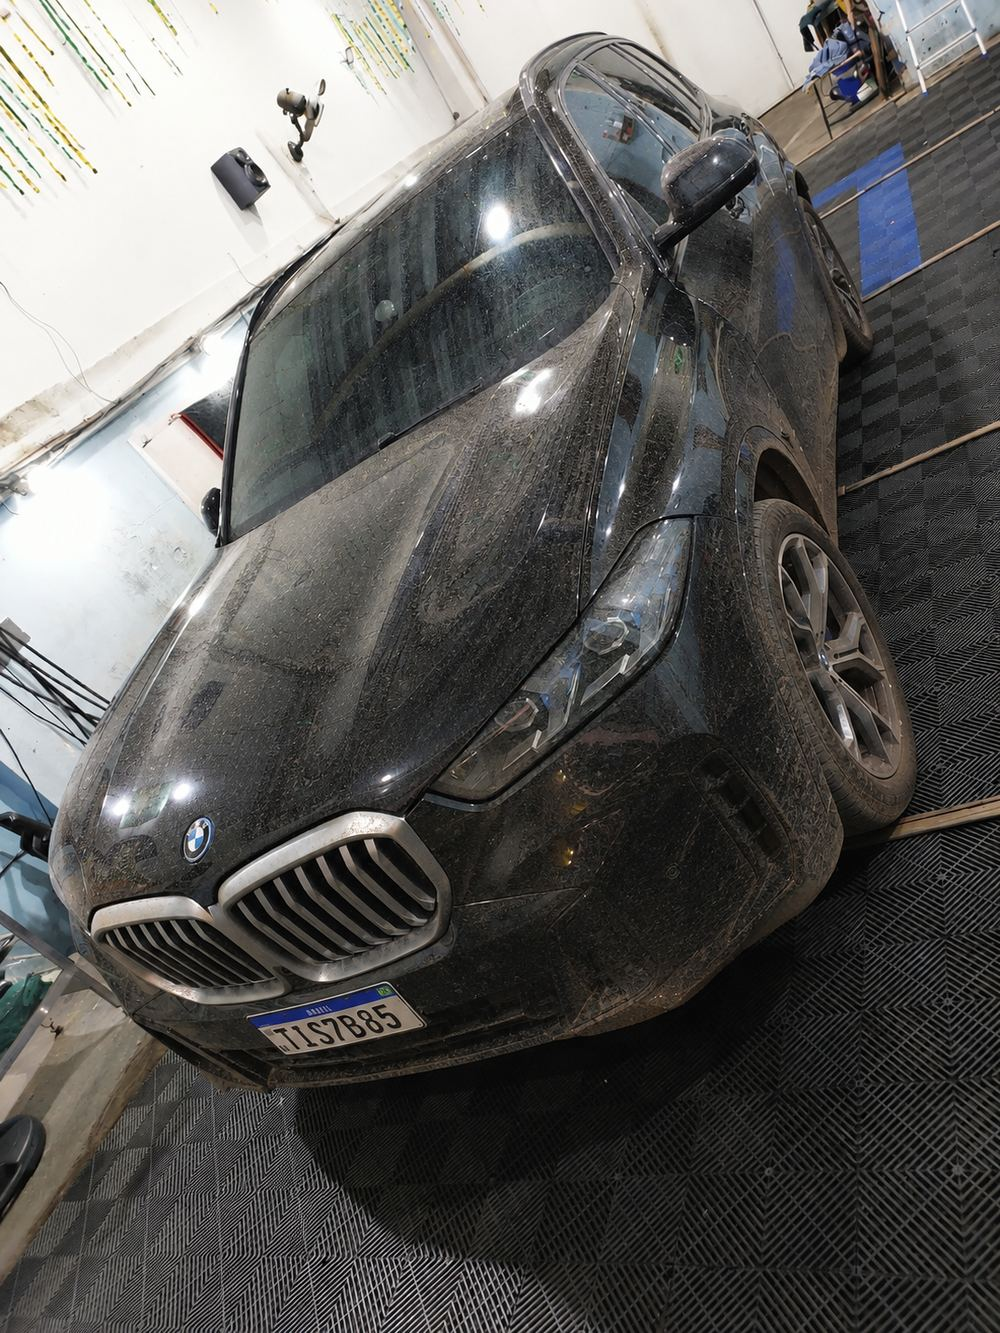
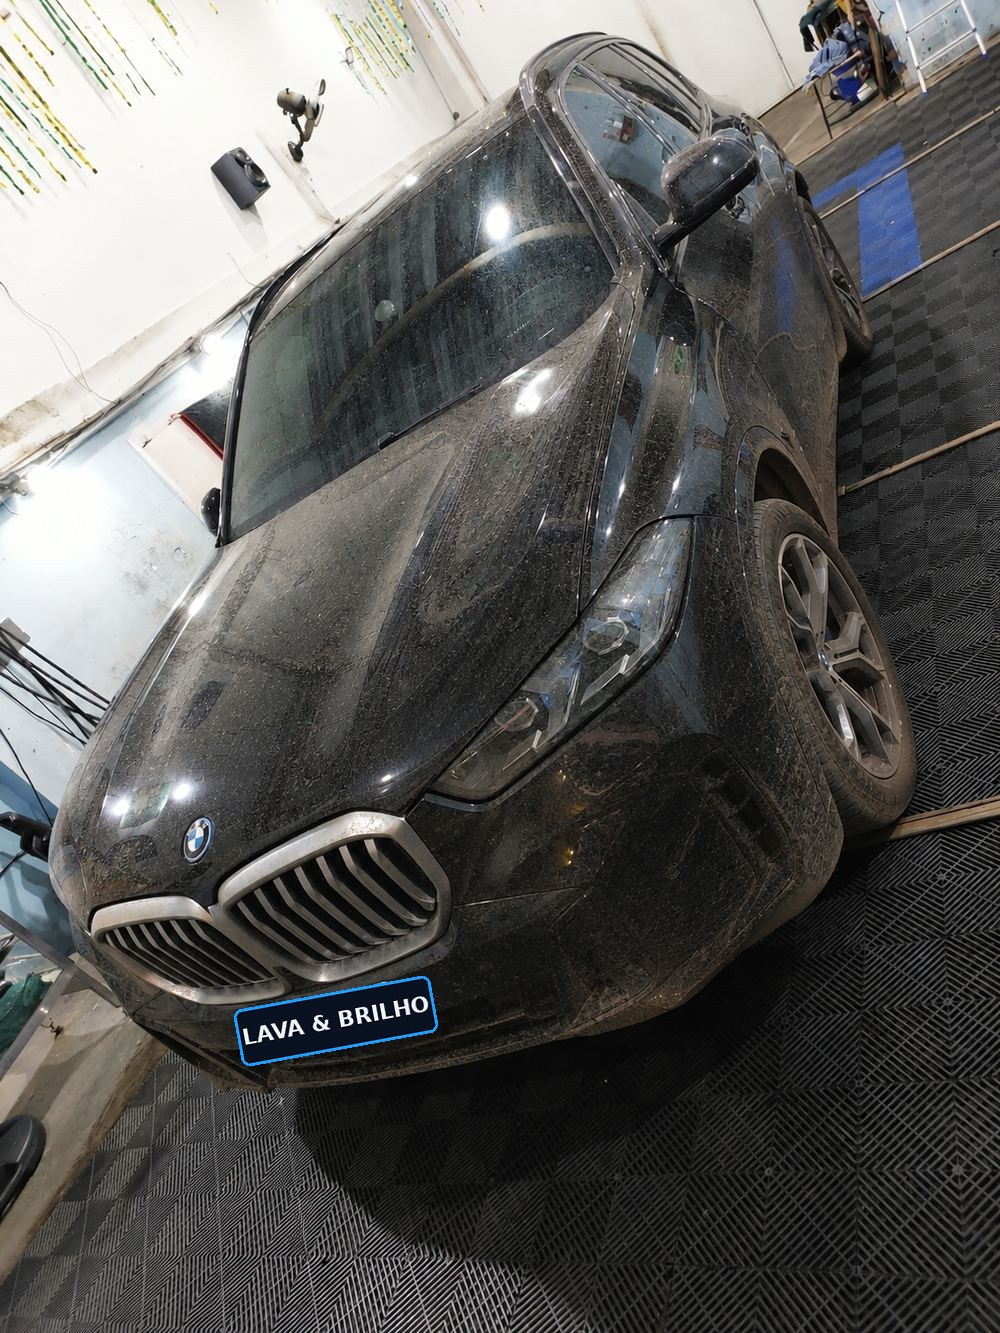
Ajustes mobile e placa do carro coberta nas fotos
Claude-Session: https://claude.ai/code/session_01KBA61aw6in9TaogE1aLh86

Changed region(s): [[0.217, 0.7074, 0.434, 0.7997]]

diff --git a/src/styles.css b/src/styles.css
@@ -188,7 +188,7 @@ h3 { font-size: 1.15rem; font-weight: 700; line-height: 1.25; }
 /* Antes & Depois */
 .ba-frame { padding: 10px; border-radius: 32px; max-width: 1000px; margin: 0 auto; }
 .ba { position: relative; aspect-ratio: 16/9; border-radius: 24px; overflow: hidden; cursor: ew-resize; touch-action: pan-y; user-select: none; }
-.ba img { position: absolute; inset: 0; width: 100%; height: 100%; object-fit: cover; pointer-events: none; }
+.ba img { position: absolute; inset: 0; width: 100%; height: 100%; object-fit: cover; object-position: 50% 58%; pointer-events: none; }
 .ba-label { position: absolute; top: 16px; padding: 7px 14px; border-radius: 999px; font-size: .78rem; font-weight: 600; letter-spacing: .14em; text-transform: uppercase; z-index: 3; }
 .ba-label--l { left: 16px; }
 .ba-label--r { right: 16px; }
@@ -262,10 +262,38 @@ h3 { font-size: 1.15rem; font-weight: 700; line-height: 1.25; }
 @media (max-width: 480px) {
   .brand span { display: none; }
   .cta-row .btn { width: 100%; }
-  .ba { aspect-ratio: 4/3; }
+  .ba { aspect-ratio: 3/4; }
 }
 @media (prefers-reduced-motion: reduce) {
   *, *::before, *::after { animation: none !important; transition: none !important; }
   .reveal { opacity: 1; transform: none; }
   html { scroll-behavior: auto; }
+}
+
+/* ---------- Ajustes mobile ---------- */
+.ba-label { background: rgba(4,10,22,.55); }
+.footer-links a { padding: 10px 0; }
+@media (max-width: 960px) {
+  .hero { min-height: auto; padding: 104px 0 40px; }
+  .hero-visual { order: 0; max-width: 300px; margin-top: 8px; }
+  .float-card { padding: 10px 14px; }
+  .float-card b { font-size: 1.25rem; }
+}
+@media (max-width: 820px) {
+  .nav-links { background: rgba(6,12,24,.96); }
+}
+@media (max-width: 480px) {
+  .hero-copy { gap: 20px; }
+  .hero-visual { max-width: 260px; }
+  .fc-1 { left: -6%; bottom: 6%; } .fc-2 { right: -6%; top: 4%; }
+  .tabs { border-radius: 20px; width: 100%; justify-content: flex-start; }
+  .card { padding: 20px; }
+  .highlight { padding: 24px; gap: 20px; }
+  .price--lg span { font-size: 2.3rem; }
+  .highlight-cta, .highlight-cta .btn { width: 100%; }
+  .custom { min-height: 0; padding: 24px; }
+  .map, .map iframe { min-height: 300px; }
+  .map-btn { left: 16px; bottom: 16px; }
+  .wa-float { width: 54px; height: 54px; right: 14px; bottom: 14px; }
+  .ba-knob { width: 50px; height: 50px; }
 }
